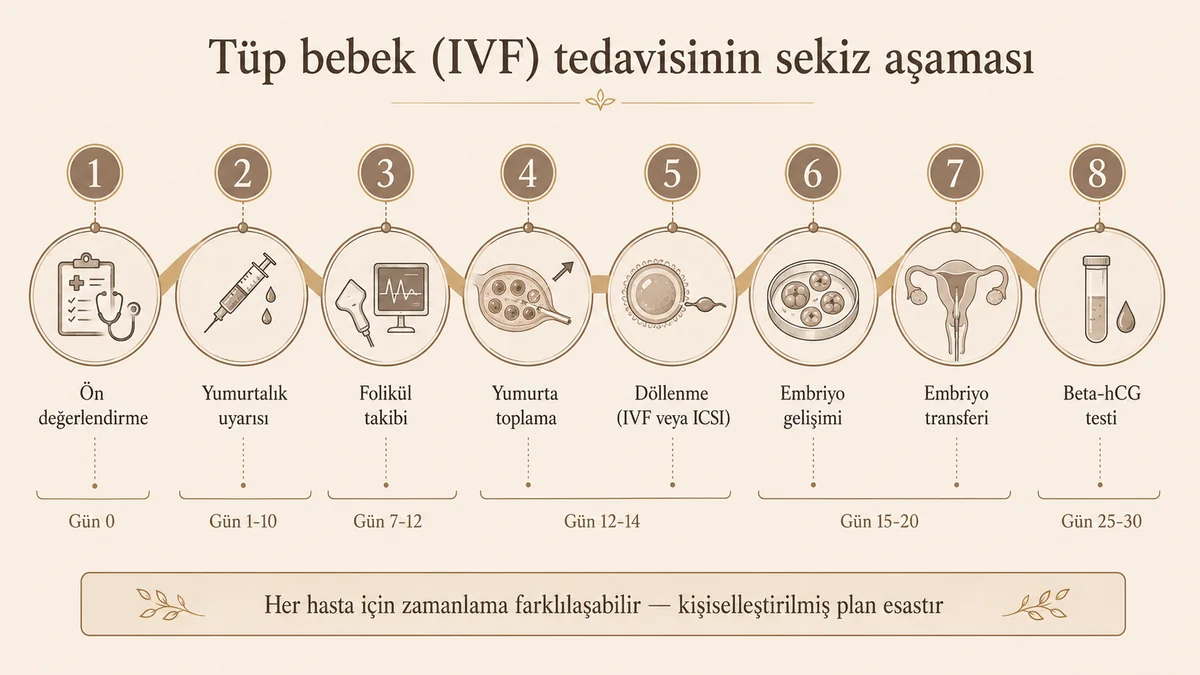
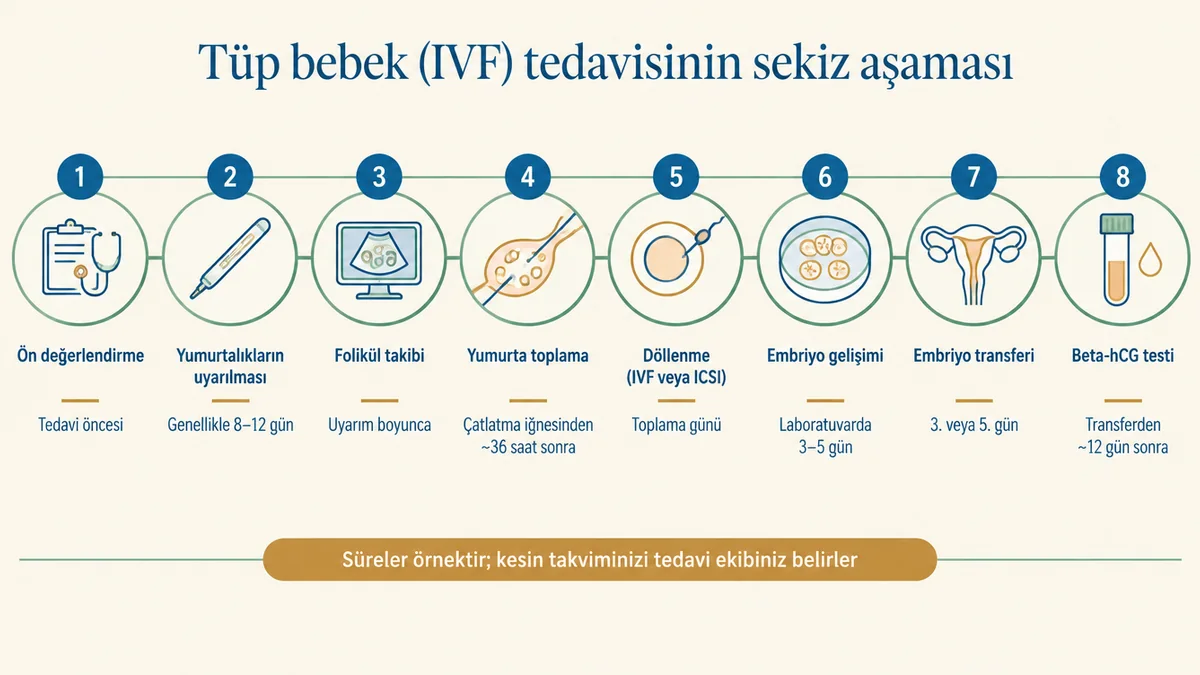
Tüp bebek nedir: süreç görseli yenilendi, karma kanıt rozeti
- Süreç görseli metindeki kaynaklı göreli sürelerle yeniden üretildi
  (uyarım 8–12 gün, toplama ~36 saat, transfer 3./5. gün, test ~12 gün);
  "Yumurtalıkların uyarılması" etiketi; alt metin ve altyazı güncellendi
- Derecesi olmayan hideEvidenceGrade makalelerinde makale sonunda
  "Karma kanıt" durumu gösteriliyor (ana sayfadaki Karma ölçütüyle aynı)
- İlk yayın tarihi doğrulanamadığı için değiştirilmedi; audit kaydı eklendi

diff --git a/docs/audits/2026-09-28-tup-bebek-nedir-detailed-audit.md b/docs/audits/2026-09-28-tup-bebek-nedir-detailed-audit.md
@@ -268,3 +268,11 @@ Değişmeyenler: `expertContribution`, yazar/reviewer/tarih alanları, kaynakça
 Açık kalanlar: özet altındaki dört kaynak (P3), görseldeki “Yumurtalık uyarısı” etiketi ve 1–10 günlük uyarım aralığının metindeki 8–12 günle görsel uyumsuzluğu (görsel yeniden üretilirse düzeltilmeli), görünür ilk yayın tarihi, genel kanıt derecesi politika farkı.
 
 Doğrulama: `check-fidelity` sayı/süre/atıf farkı yok (yalnızca bağlantı birleştirmeleri); `editorial-check` 0 aday; `npm run build` başarılı (hedef dışı 7 mevcut uyarı); `npm run verify:preflight` tüm kontroller geçti; render'da 1 H1, yinelenen ID yok, figcaption HFEA bağlantısı ve `#faq` iç bağlantısı çalışıyor. Commit, push ve deploy yapılmadı.
+
+## 12. P3 kapanışları — görsel, kanıt durumu, ilk yayın tarihi
+
+- **Süreç görseli yeniden üretildi** (Higgsfield `gpt_image_2_5`, 1200×675 WebP, 67 KB). Mutlak gün etiketleri yerine metindeki kaynaklı göreli süreler kullanıldı: uyarım genellikle 8–12 gün, toplama çatlatmadan ~36 saat sonra, embriyo 3–5 gün, transfer 3. veya 5. gün, test transferden ~12 gün sonra. Etiket “Yumurtalıkların uyarılması” oldu. Türkçe yazım kontrol edildi. Alt metin ve altyazı yeni görsele göre güncellendi.
+- **Kanıt durumu “Karma kanıt”:** Derece verilmeyen ve `hideEvidenceGrade: true` taşıyan makalelerde (ana sayfadaki Karma sınıfıyla aynı ölçüt; şu an 5 makale) makale sonunda görünür rozet gösteriliyor. Makaleye tek harf derece atanmadı; inline derece etiketi eklenmedi.
+- **İlk yayın tarihi:** Web Archive'da bu URL'nin ilk kaydı 10 Nisan 2026; o kopyadaki `datePublished` zaten 2024-09-27. Tarihin kökeni doğrulanamadığı için değer değiştirilmedi ve görünür künyeye eklenmedi.
+
+Doğrulama: `npm run build` başarılı; `verify:preflight` 26/26; yerel önizlemede rozet görüldü.
